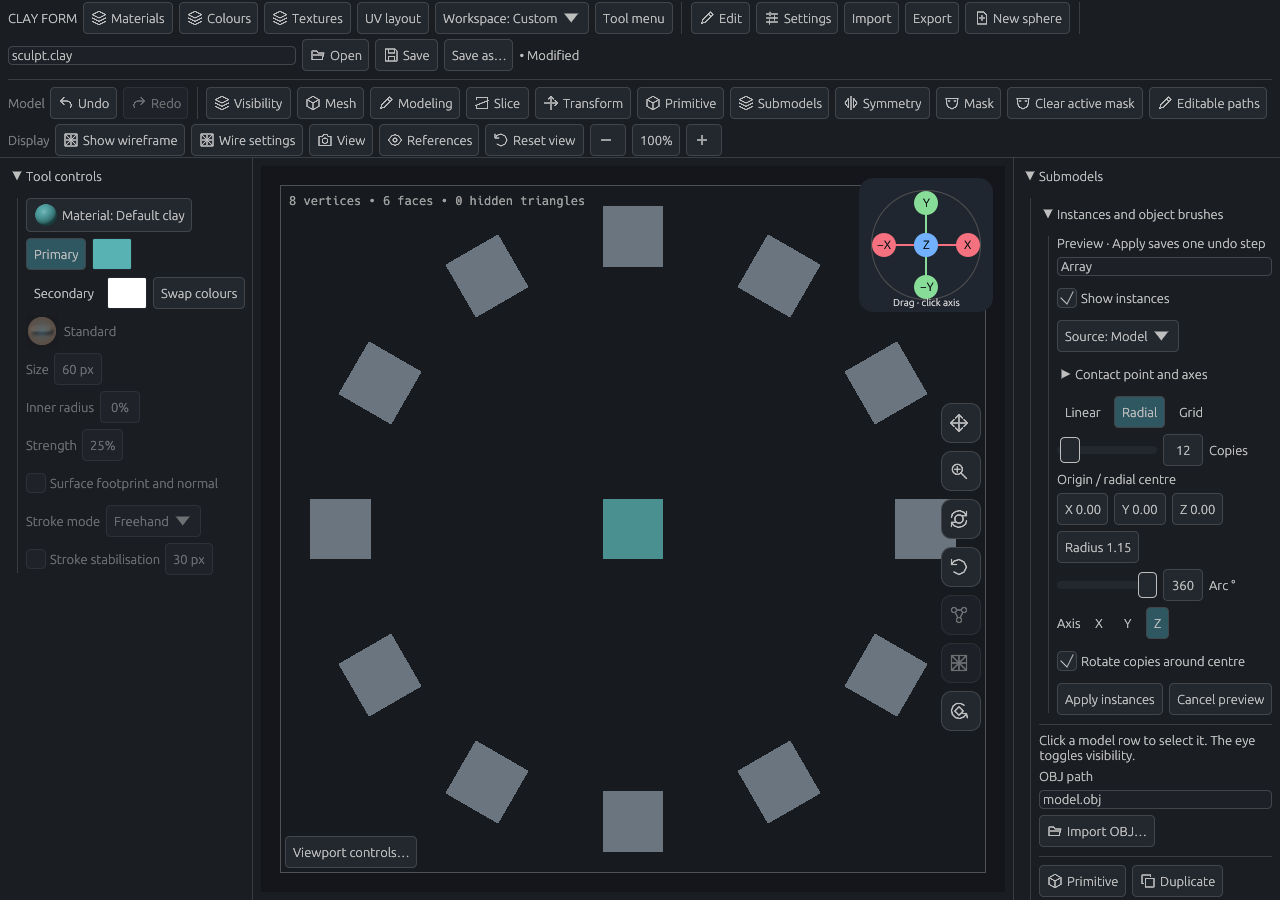
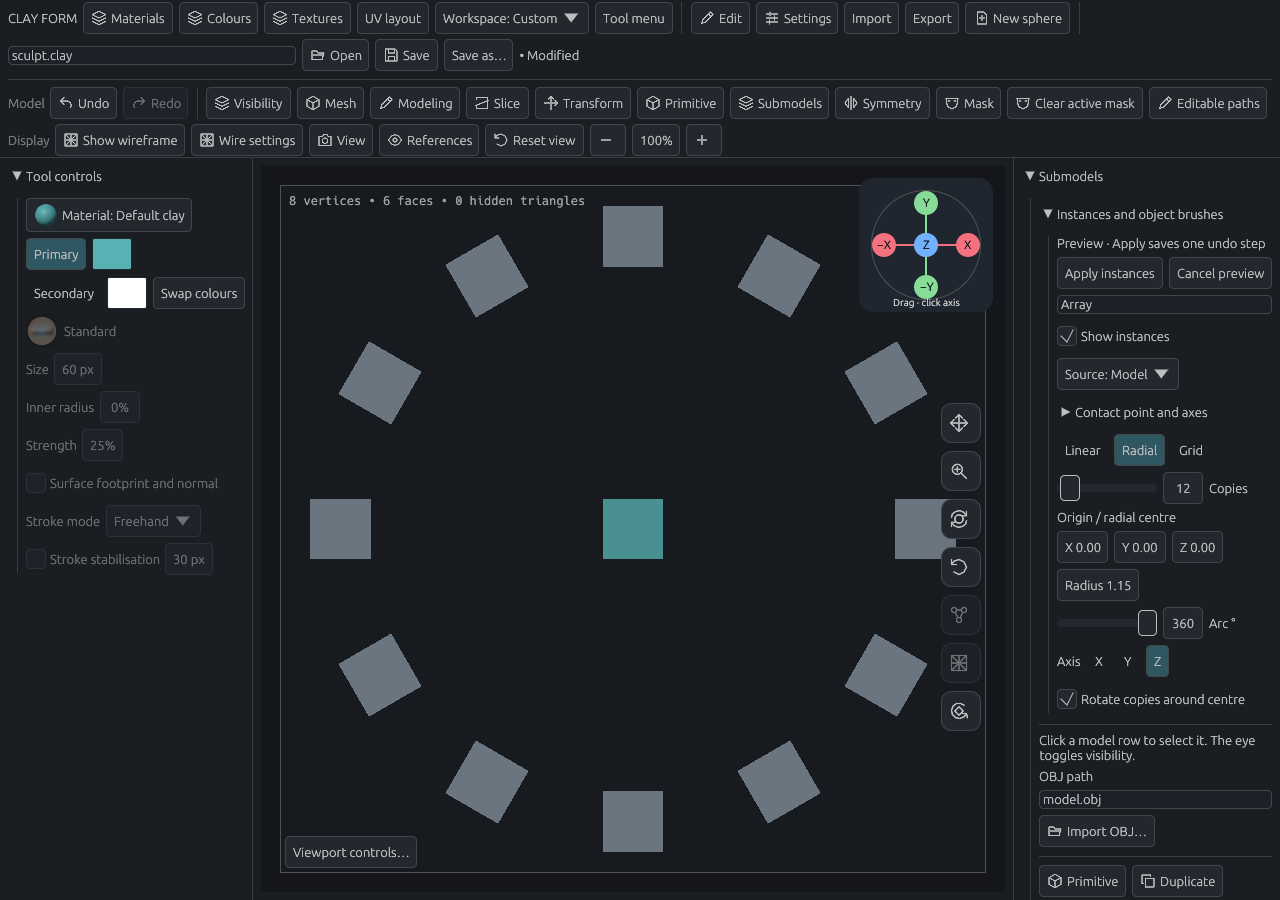
Keep instance controls reachable and restore tool transitions

Changed region(s): [[0.8125, 0.28, 0.9688, 0.8089]]

diff --git a/src/ui/instances.rs b/src/ui/instances.rs
@@ -14,6 +14,7 @@ pub(crate) struct Controls {
     pub up: usize,
     pub asset_path: String,
     pub brush: crate::viewport::objects::BrushOptions,
+    pub stop_placing: bool,
     thumbnails: std::collections::HashMap<u64, Thumbnail>,
 }
 impl Default for Controls {
@@ -28,6 +29,7 @@ impl Default for Controls {
             up: 2,
             asset_path: "object.object.json".into(),
             brush: Default::default(),
+            stop_placing: false,
             thumbnails: Default::default(),
         }
     }
@@ -162,6 +164,18 @@ impl UiState {
         if let Some(set) = &mut self.instances.editor {
             let before = set.clone();
             ui.label("Preview · Apply saves one undo step");
+            let (apply, cancel) = ui
+                .horizontal(|ui| {
+                    (
+                        ui.add_enabled(
+                            !self.instances.invalid,
+                            egui::Button::new("Apply instances"),
+                        )
+                        .clicked(),
+                        ui.button("Cancel preview").clicked(),
+                    )
+                })
+                .inner;
             ui.text_edit_singleline(&mut set.name);
             ui.checkbox(&mut set.visible, "Show instances");
             match &mut set.layout {
@@ -271,6 +285,7 @@ impl UiState {
                     .unwrap_or_else(|| Adjustment::new(slot));
                 let old = adjustment.clone();
                 let a = &mut adjustment;
+                ui.checkbox(&mut a.visible, "Show this copy");
                 vector(ui, "Move", &mut a.offset);
                 vector(ui, "Rotate °", &mut a.rotation);
                 ui.add(
@@ -279,7 +294,6 @@ impl UiState {
                         .speed(0.01)
                         .prefix("Scale "),
                 );
-                ui.checkbox(&mut a.visible, "Show this copy");
                 ui.weak(format!("Set {id}: changes affect this copy only."));
                 if old != adjustment {
                     if let Some(a) = set.adjustments.iter_mut().find(|a| a.slot == slot) {
@@ -292,21 +306,10 @@ impl UiState {
             if before != *set {
                 commands.push(Command::Instances(C::Preview(Box::new(set.clone()))));
             }
-            ui.horizontal(|ui| {
-                if ui
-                    .add_enabled(
-                        !self.instances.invalid,
-                        egui::Button::new("Apply instances"),
-                    )
-                    .clicked()
-                {
-                    commands.push(Command::Instances(C::Apply));
-                }
-                if ui.button("Cancel preview").clicked() {
-                    commands.push(Command::Instances(C::Cancel));
-                }
-            });
-            if ui.input(|i| i.key_pressed(egui::Key::Escape)) {
+            if apply {
+                commands.push(Command::Instances(C::Apply));
+            }
+            if cancel || ui.input(|i| i.key_pressed(egui::Key::Escape)) {
                 commands.push(Command::Instances(C::Cancel));
             }
         } else {
@@ -330,44 +333,7 @@ impl UiState {
                 }
             });
             for set in &document.instances().sets {
-                ui.push_id(set.id,|ui|{
-                            ui.label(&set.name);
-                            ui.horizontal_wrapped(|ui|{
-                                if ui.button("Edit").clicked(){
-commands.push(Command::Instances(C::Edit(set.id)));
-}
-                                if ui.button("Bake").on_hover_text("Make independent submodels; retain source UVs, materials and masks").clicked(){
-commands.push(Command::Instances(C::Bake(set.id,false)));
-}
-                                if ui.button("Bake + fuse").on_hover_text("Union overlapping closed pieces with voxel remeshing. Rebuilds topology and removes UVs; keeps the reusable source.").clicked(){
-commands.push(Command::Instances(C::Bake(set.id,true)));
-}
-                                if ui.small_button("Remove set").clicked(){
-commands.push(Command::Instances(C::Remove(set.id)));
-}
-                            }
-);
-                            egui::CollapsingHeader::new("Copies").show(ui,|ui|{
-                                if let Ok(placements)=set.placements(document.paths()){
-                                    egui::ScrollArea::vertical().max_height(160.).show(ui,|ui|{
-                                        for (slot,_) in placements {
-                                            ui.horizontal(|ui|{
-                                                if ui.selectable_label(document.selected_instance==Some((set.id,slot)),format!("Copy {}",slot+1)).clicked(){
-commands.push(Command::Instances(C::Select(set.id,slot)));
-}
-                                                if ui.small_button("Independent").clicked(){
-commands.push(Command::Instances(C::Detach(set.id,slot)));
-}
-                                            }
-);
-                                        }
-                                    }
-);
-                                }
-                            }
-);
-                        }
-);
+                ui.push_id(set.id, |ui| instance_set(ui, document, set, commands));
             }
             if let Some((id, slot)) = document.selected_instance {
                 ui.label(format!(
@@ -473,6 +439,72 @@ commands.push(Command::Instances(C::Detach(set.id,slot)));
             });
         }
     }
+}
+
+fn instance_set(ui: &mut egui::Ui, document: &Document, set: &Set, commands: &mut Vec<Command>) {
+    ui.label(&set.name);
+    ui.horizontal_wrapped(|ui| {
+        if ui.button("Edit").clicked() {
+            commands.push(Command::Instances(C::Edit(set.id)));
+        }
+        if ui.button("Bake")
+            .on_hover_text("Make independent submodels; retain source UVs, materials and masks")
+            .clicked()
+        {
+            commands.push(Command::Instances(C::Bake(set.id, false)));
+        }
+        if ui.button("Bake + fuse")
+            .on_hover_text("Union overlapping closed pieces with voxel remeshing. Rebuilds topology and removes UVs; keeps the reusable source.")
+            .clicked()
+        {
+            commands.push(Command::Instances(C::Bake(set.id, true)));
+        }
+        if ui.small_button("Remove set").clicked() {
+            commands.push(Command::Instances(C::Remove(set.id)));
+        }
+    });
+    egui::CollapsingHeader::new("Copies").show(ui, |ui| {
+        // Hidden copies must remain selectable so their visibility can be restored.
+        let mut listed = set.clone();
+        for adjustment in &mut listed.adjustments {
+            adjustment.visible = true;
+        }
+        if let Ok(placements) = listed.placements(document.paths()) {
+            egui::ScrollArea::vertical()
+                .max_height(160.)
+                .show(ui, |ui| {
+                    for (slot, _) in placements {
+                        let visible = set
+                            .adjustments
+                            .iter()
+                            .find(|a| a.slot == slot)
+                            .is_none_or(|a| a.visible);
+                        ui.horizontal(|ui| {
+                            let label = format!(
+                                "Copy {}{}",
+                                slot + 1,
+                                if visible { "" } else { " (hidden)" }
+                            );
+                            if ui
+                                .selectable_label(
+                                    document.selected_instance == Some((set.id, slot)),
+                                    label,
+                                )
+                                .clicked()
+                            {
+                                commands.push(Command::Instances(C::Select(set.id, slot)));
+                            }
+                            if ui
+                                .add_enabled(visible, egui::Button::new("Independent").small())
+                                .clicked()
+                            {
+                                commands.push(Command::Instances(C::Detach(set.id, slot)));
+                            }
+                        });
+                    }
+                });
+        }
+    });
 }
 
 struct Thumbnail {

diff --git a/src/document/instances.rs b/src/document/instances.rs
@@ -200,7 +200,11 @@ impl Document {
             .sets
             .retain(|s| s.id != id);
         self.instance_cache.take();
-        self.apply_instance_preview()
+        self.apply_instance_preview()?;
+        if self.selected_instance.is_some_and(|(set, _)| set == id) {
+            self.selected_instance = None;
+        }
+        Ok(())
     }
     pub fn capture_object(
         &mut self,
@@ -448,9 +452,10 @@ mod tests {
     fn document() -> Document {
         let mut p = crate::sculpt::Primitive::for_kind(crate::sculpt::PrimitiveKind::Cube);
         p.divisions = [1; 3];
-        let mut d = Document::default();
-        d.geometry = Geometry::new(p.mesh().unwrap());
-        d
+        Document {
+            geometry: Geometry::new(p.mesh().unwrap()),
+            ..Default::default()
+        }
     }
     fn array(d: &mut Document, count: usize) -> Set {
         let piece = d.instance_piece(0).unwrap();
@@ -490,7 +495,9 @@ mod tests {
         d.display_changed();
         assert!(!Arc::ptr_eq(&applied, &d.instance_placements().unwrap()));
         assert_eq!(applied, d.instance_placements().unwrap());
+        d.selected_instance = Some((1, 0));
         d.remove_instance_set(1).unwrap();
+        assert!(d.selected_instance.is_none());
         assert!(d.instance_placements().unwrap().is_empty());
         d.undo();
         assert_eq!(d.instance_placements().unwrap().len(), 2);

diff --git a/src/app/instances.rs b/src/app/instances.rs
@@ -4,6 +4,7 @@ use crate::{command::InstanceCommand as C, sculpt::instances::*};
 impl App {
     fn start_instance_bake(&mut self, id: u64, fuse: bool) -> Result<(), String> {
         self.document.cancel_instance_preview();
+        self.document.selected_instance = None;
         self.ui.instances.editor = None;
         self.viewport.object_brush = None;
         self.start_mesh_job(Operation::BakeInstances(id, fuse))
@@ -16,6 +17,7 @@ impl App {
                 }
                 self.viewport.cancel(&mut self.document);
                 self.document.cancel_instance_preview();
+                self.document.selected_instance = None;
                 self.viewport.object_brush = None;
                 self.ui.modeling.active = false;
                 self.ui.transform_mode = crate::viewport::TransformMode::Sculpt;
@@ -115,6 +117,7 @@ impl App {
                 self.ui.status = "Object brush captured and embedded in the project".into();
             }
             C::StartBrush(id) => {
+                self.ui.instances.stop_placing = false;
                 self.viewport.cancel(&mut self.document);
                 self.document.cancel_instance_preview();
                 self.ui.instances.brush.validate()?;

diff --git a/src/app/tests/guide_captures.rs b/src/app/tests/guide_captures.rs
@@ -67,6 +67,20 @@ fn reusable_models_offscreen_review() {
         g.app.ui.status
     );
     assert_eq!(g.app.document.instance_placements().unwrap().len(), 12);
+    let mut hidden = g.app.document.instances().sets[0].clone();
+    let mut adjustment = Adjustment::new(0);
+    adjustment.visible = false;
+    hidden.adjustments.push(adjustment);
+    g.app.document.preview_instance_set(hidden).unwrap();
+    g.app.document.apply_instance_preview().unwrap();
+    assert_eq!(g.app.document.instance_placements().unwrap().len(), 11);
+    click_guide_label(&mut g, "Copies");
+    click_guide_label(&mut g, "Copy 1 (hidden)");
+    assert_eq!(g.app.document.selected_instance, Some((1, 0)));
+    click_guide_label(&mut g, "Edit selected copy…");
+    click_guide_label(&mut g, "Show this copy");
+    click_guide_label(&mut g, "Apply instances");
+    assert_eq!(g.app.document.instance_placements().unwrap().len(), 12);
     g.save("02-linked-array");
     g.app.dispatch(Command::Instances(C::Remove(1)), &g.ctx);
     g.app

diff --git a/src/app/tests/instances.rs b/src/app/tests/instances.rs
@@ -32,6 +32,20 @@ fn reusable_object_tool_resets_when_changing_projects() {
     assert!(app.document.instances().is_empty());
 }
 #[test]
+fn reusable_object_tool_yields_to_sculpt_brush_and_transform_selection() {
+    let (mut app, ctx) = setup();
+    app.ui.select_brush(0, &app.document);
+    navigation_frame(&mut app, &ctx, vec![]);
+    assert!(app.viewport.object_brush.is_none());
+    app.dispatch(Command::Instances(C::StartBrush(1)), &ctx);
+    app.dispatch(
+        Command::TransformMode(crate::viewport::TransformMode::World),
+        &ctx,
+    );
+    navigation_frame(&mut app, &ctx, vec![]);
+    assert!(app.viewport.object_brush.is_none());
+}
+#[test]
 fn reusable_objects_real_pointer_stroke_and_cancel_are_one_transaction() {
     let (mut app, ctx) = setup();
     let before = app.document.project();

diff --git a/src/viewport/objects.rs b/src/viewport/objects.rs
@@ -107,7 +107,16 @@ impl Viewport {
         let Some(mut brush) = self.object_brush.take() else {
             return false;
         };
-        if document.instance_source(brush.piece.source).is_none() {
+        if document.instance_source(brush.piece.source).is_none()
+            || options.transform_mode != TransformMode::Sculpt
+            || options.modeling.is_some()
+            || options.select.is_some()
+            || options.slice.is_some()
+            || options.edge_select
+            || options.arrange_references
+            || self.paths.active
+            || self.sample_colour
+        {
             brush.cancel(document);
             return false;
         }

diff --git a/src/app.rs b/src/app.rs
@@ -431,6 +431,11 @@ impl App {
             .brush_size_preview
             .filter(|(frame, _)| *frame == ui.ctx().cumulative_frame_nr())
             .and_then(|(_, index)| self.document.brushes().get(index).cloned());
+        if std::mem::take(&mut self.ui.instances.stop_placing)
+            && let Some(mut brush) = self.viewport.object_brush.take()
+        {
+            brush.cancel(&mut self.document);
+        }
         if let Some(brush) = &mut self.viewport.object_brush {
             brush.options = self.ui.instances.brush;
         }

diff --git a/src/ui.rs b/src/ui.rs
@@ -277,6 +277,7 @@ impl UiState {
     }
 
     pub(crate) fn select_brush(&mut self, index: usize, document: &Document) {
+        self.instances.stop_placing = true;
         self.materials.sampling = false;
         if document
             .brushes()

diff --git a/docs/materials.md b/docs/materials.md
@@ -6,7 +6,7 @@ Issues [#9](https://github.com/dustyghost/clay-form/issues/9) and [#61](https://
 
 `Mesh.materials` is empty for implicit default clay, or contains one evaluated `Material` per vertex. A material contains a base surface and three ordered additional surfaces. Each surface has linear RGB base colour, roughness, metallic, IOR, specular level, linear RGB emission and emission strength, plus subsurface weight, RGB radius and scale. Additional layers have weight and an Add amount: 0 is Mix, 1 is Add. Intermediate values preserve continuous painting and topology interpolation.
 
-Colour, roughness, metallic, specular, emission colour and layer controls range from 0 to 1. IOR ranges from 1 to 4; emission strength from 0 to 100; subsurface radius and scale from 0 to 10 in model units. All values must be finite. Defaults preserve older projects: IOR 1.5, specular 0.5, no emission, scattering or additional layers. New projects use format version 3, so older application versions reject them rather than discard unfamiliar material data. Version 1 and 2 projects remain readable. Sparse default fields are omitted in JSON. The existing 2 GiB project-file limit still applies; failed saves retain the previous file.
+Colour, roughness, metallic, specular, emission colour and layer controls range from 0 to 1. IOR ranges from 1 to 4; emission strength from 0 to 100; subsurface radius and scale from 0 to 10 in model units. All values must be finite. Defaults preserve older projects: IOR 1.5, specular 0.5, no emission, scattering or additional layers. New projects use format version 4, so older application versions reject them rather than discard unfamiliar material data. Version 1–3 projects remain readable. Sparse default fields are omitted in JSON. The existing 2 GiB project-file limit still applies; failed saves retain the previous file.
 
 `SceneSettings.materials` holds up to 256 named definitions with stable IDs. Vertices retain sparse influence weights independently for base colour, roughness, metallic and the remaining surface/layer controls. Editing a named definition applies its parameter delta in proportion to those weights across every submodel and stored subdivision level. Undo restores the definition and affected values together. Copies have new identities. Legacy painted values without identity links remain independent until repainted; loading an older file does not guess shared assignments. Personal swatch templates and palette colours also persist in preferences; the open project's definition takes precedence over a personal template with the same identity.
 

diff --git a/docs/validation/reusable-models-2026-10-31/README.md b/docs/validation/reusable-models-2026-10-31/README.md
@@ -2,9 +2,9 @@
 
 Implementation batch: shared arrays #16, path assemblies #18 and object brushes #15. Review remains pending; no PR is opened by this batch.
 
-Focused checks use `CARGO_PROFILE_TEST_DEBUG=0 cargo test --locked -j 1 --lib reusable_ -- --test-threads=1`, under the shared build lock. Seventeen ordinary tests cover private preview/apply/cancel, source edits, independent copies, bounded invalid input, save/reopen, source deletion protection, asset file round trips, path edits, closed-loop spacing and frames, real pointer gestures, sampling at different event rates, closed fusion, open-surface rejection, display picking, occlusion/mask/hidden-face protection, cache invalidation and project-switch tool reset. The Vulkan interaction check is ignored in ordinary runs and explicitly included in graphics CI.
+Focused checks use `CARGO_PROFILE_TEST_DEBUG=0 cargo test --locked -j 1 --lib reusable_ -- --test-threads=1`, under the shared build lock. Eighteen ordinary tests cover private preview/apply/cancel, source edits, independent copies, bounded invalid input, save/reopen, source deletion protection, asset file round trips, path edits, closed-loop spacing and frames, real pointer gestures, sampling at different event rates, closed fusion, open-surface rejection, display picking, occlusion/mask/hidden-face protection, cache invalidation and project-switch tool reset and switching back to sculpt/transform tools. The Vulkan interaction check is ignored in ordinary runs and explicitly included in graphics CI.
 
-The real egui/wgpu walkthrough `reusable_models_offscreen_review` passed on Mesa llvmpipe (LLVM 23.1.4, Mesa 26.2.6), with one software-rendering thread. It clicks Apply for array/path previews, brushes a row of objects on a sphere, checks one-step Undo/Redo and validates the saved project. The attached captures were visually inspected for visible Apply/Cancel controls, radial orientation, curved placement and surface contact:
+The real egui/wgpu walkthrough `reusable_models_offscreen_review` passed on Mesa llvmpipe (LLVM 23.1.4, Mesa 26.2.6), with one software-rendering thread. It clicks Apply for array/path previews, selects and restores a hidden copy through the real controls, brushes a row of objects on a sphere, checks one-step Undo/Redo and validates the saved project. The attached captures were visually inspected for visible Apply/Cancel controls, radial orientation, curved placement and surface contact:
 
 - [Array preview](01-array-preview.png)
 - [Path assembly preview](03-path-preview.png)

diff --git a/docs/guide/textures.md b/docs/guide/textures.md
@@ -141,7 +141,7 @@ Vertex and integer targets keep bounded material values and report when sampling
 
 Convert extra AOVs, deep/multilayer files and colour files declaring other primaries before import. ICC profiles belong to the PNG workflow. Alpha remains coverage inside 0–1; additive transparent-emission rendering is not supported.
 
-Texture pixels are embedded in `.clay`, so moving the project does not depend on an exchange directory. New saves use project version 3; versions 1 and 2 remain readable. Duplicated models share their texture identity: painting or reloading changes every linked use. Choose **Make independent** to give the active model a separate image.
+Texture pixels are embedded in `.clay`, so moving the project does not depend on an exchange directory. New saves use project version 4; versions 1–3 remain readable. Duplicated models share their texture identity: painting or reloading changes every linked use. Choose **Make independent** to give the active model a separate image.
 
 | Capacity | Limit or memory use |
 | --- | --- |
